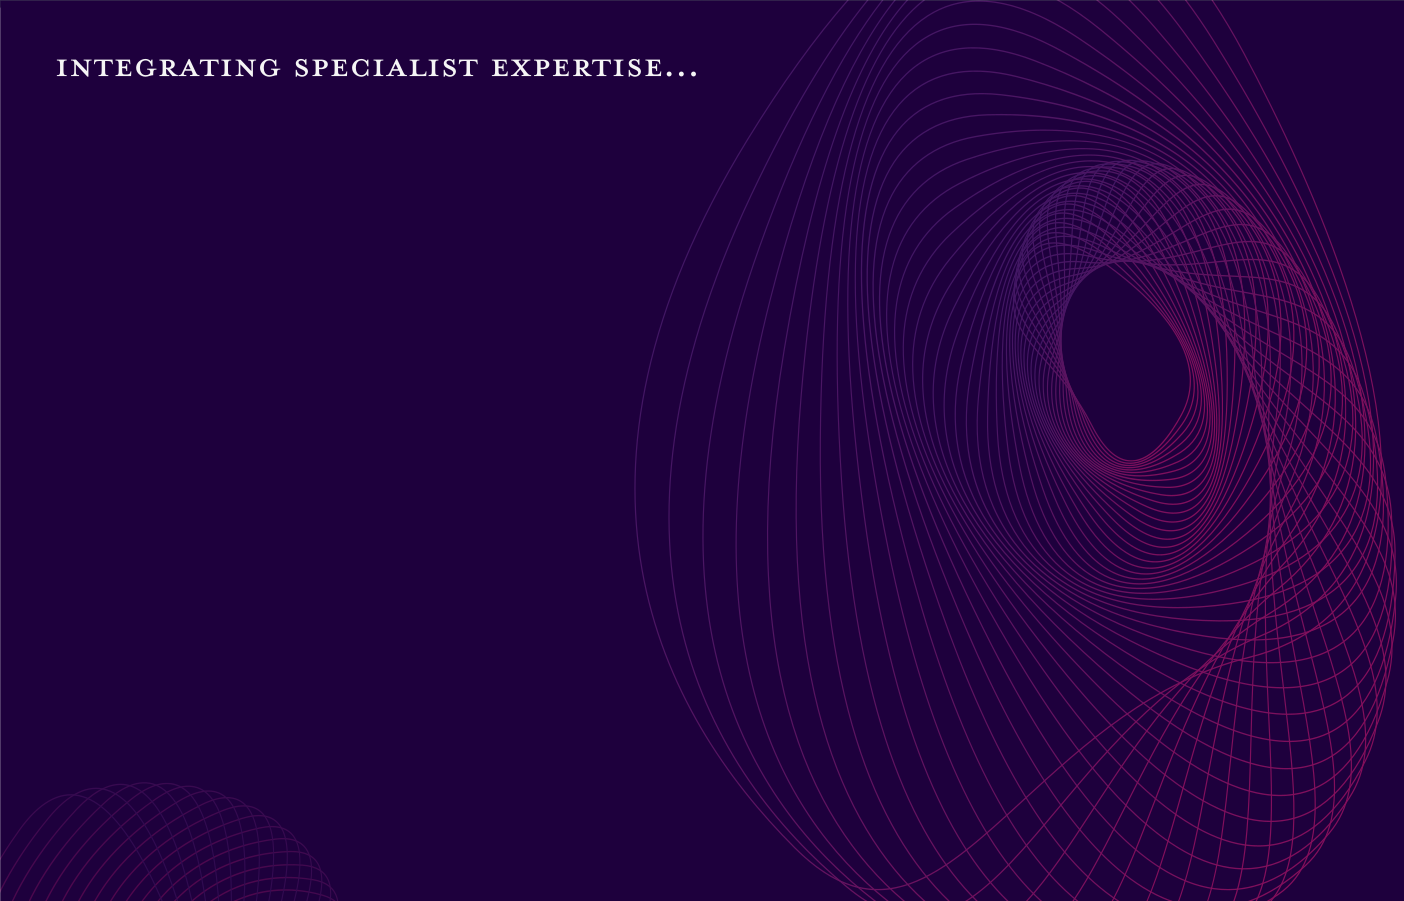
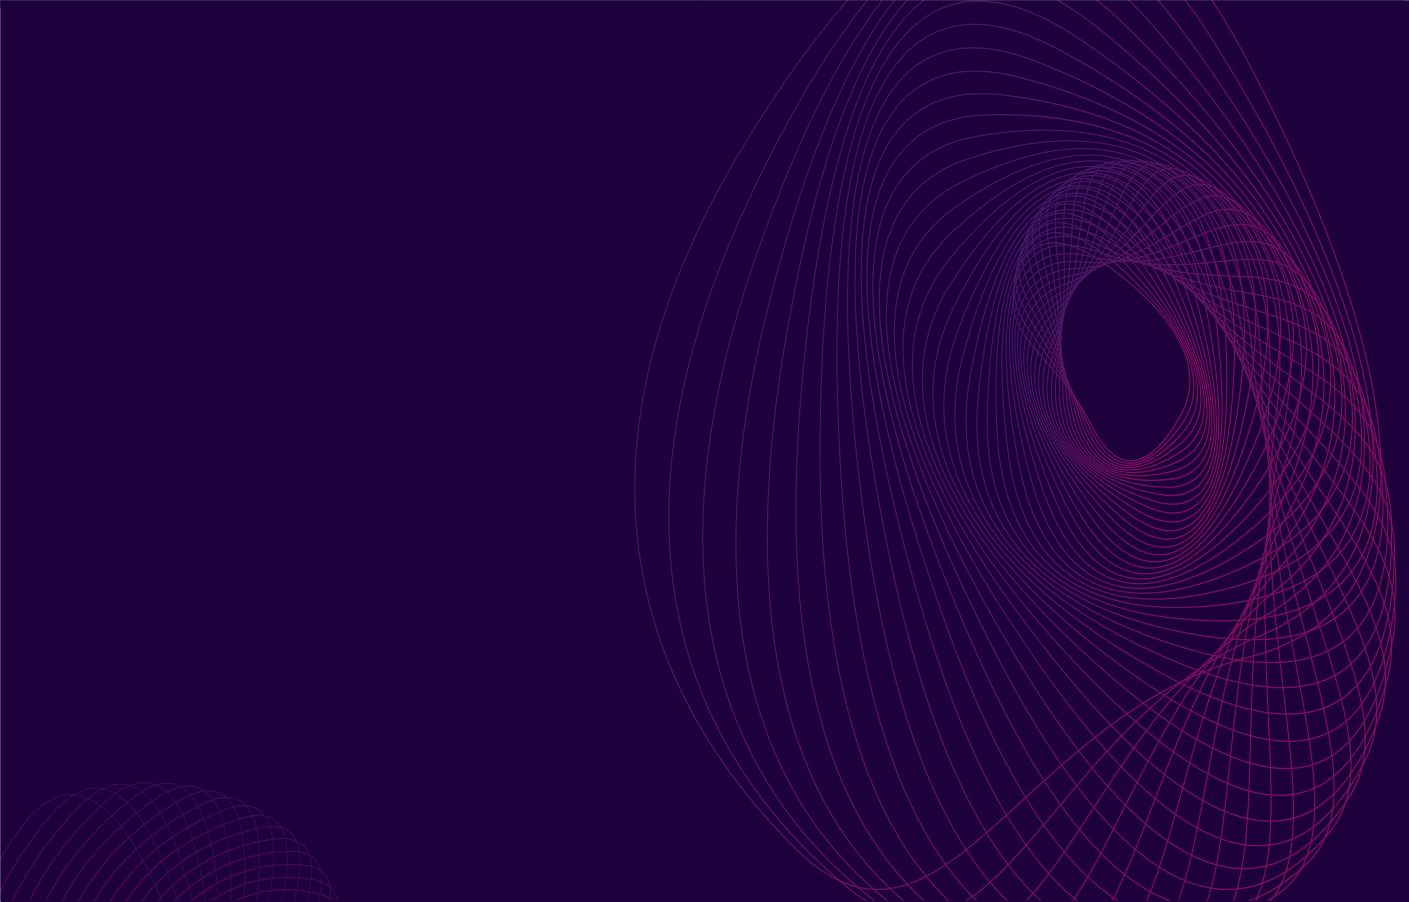
Removing text from expertise bg and adding as text.

diff --git a/index.html b/index.html
@@ -121,6 +121,7 @@
             </div>
         </div>
         <div id="expertise" class="expertise pb-3">
+            <h4 class="expertise-title ml-3 pt-4 pb-2">Integrating specialist expertise...</h4>
             <div class="card-deck expertise-card-deck-top">
                 <div class="card bg-transparent border border-white ml-1 mr-1">
                     <div class="card-body">
@@ -233,9 +234,9 @@
                         <h5 class="card-title">Richard Halsall</h5>
                         <h5 class="card-subtitle mb-2">Advocate</h5>
                         <img src="images/team/RichardHalsall.jpg" class="team-photo" />
-                        <p class="card-text mb-0">I’m a founding director and have
-                            focused on commercial and
-                            international cross-border litigation...</p>
+                        <p class="card-text mb-0">I’m a founding director and have focused
+                            on commercial and international cross-border,
+                            litigation...</p>
                     </div>
                     <div class="card-footer border-0">
                         <div class="row">

diff --git a/styles/main.css b/styles/main.css
@@ -54,10 +54,12 @@ body {
 .expertise {
     background-image: url('../images/Expertise-Background.png');
     background-repeat: round;
+    color: #ffffff;
 }
 
-.expertise .card-deck.expertise-card-deck-top {
-    padding-top: 90px;
+.expertise .expertise-title {
+    text-transform: uppercase;
+    letter-spacing: 0.1em;
 }
 
 .expertise .card-deck.expertise-card-deck-bottom {
@@ -96,7 +98,12 @@ body {
 }
 
 .team .team-email {
+    font-size: 0.8em;
     color: #E35348;
+}
+
+.team .team-phone {
+    font-size: 0.8em;
 }
 
 .team .team-linkedin {
